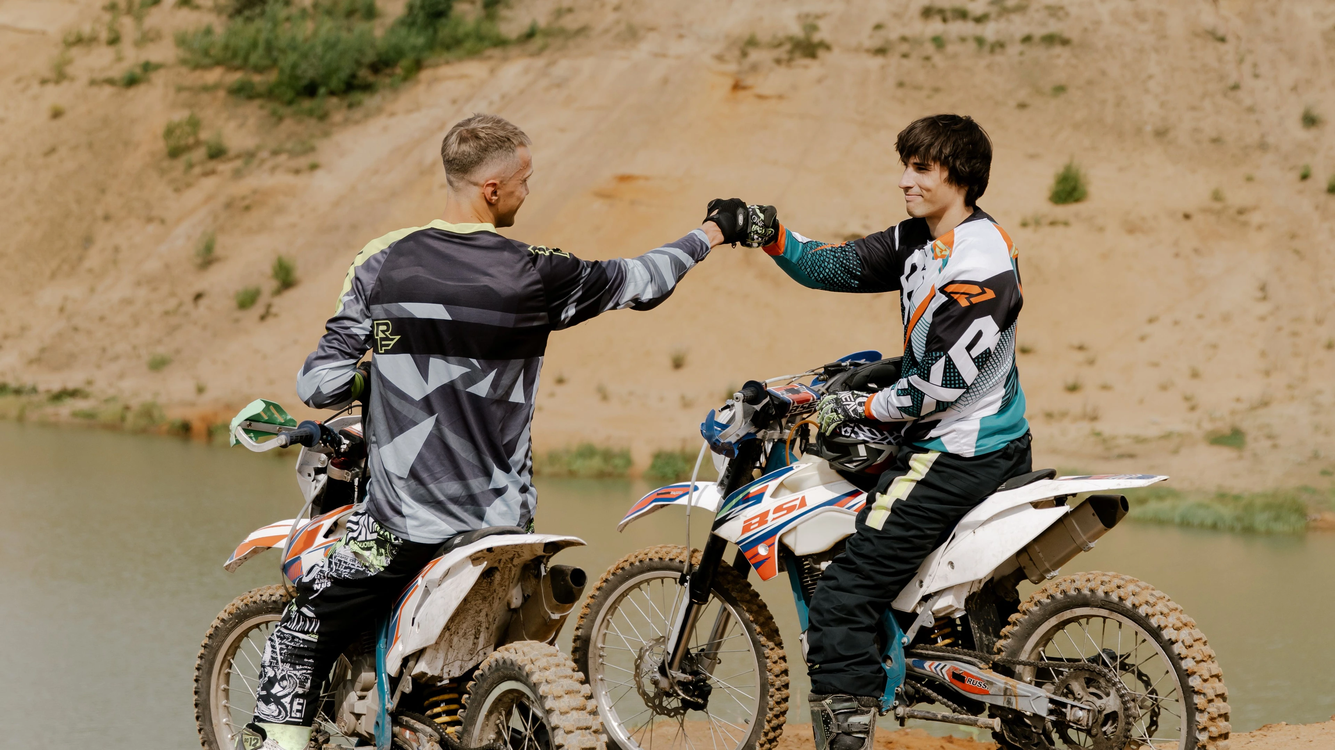
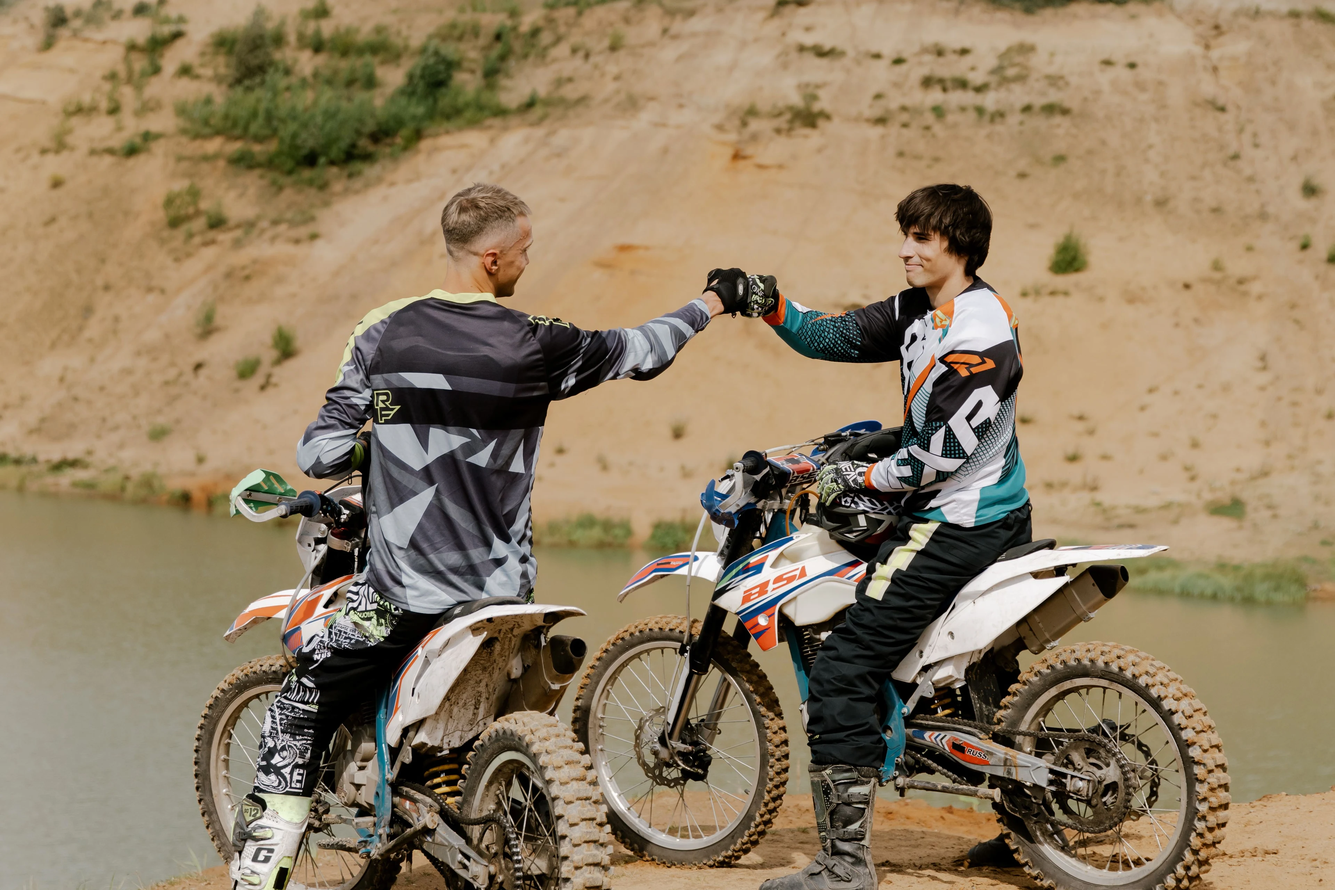
Fix hero/category images actually fitting their containers
The images were resized to good quality but weren't necessarily framed
correctly -- object-fit:cover crops a fixed-aspect source into whatever
box the viewport produces, and that box's aspect ratio swings wildly
(2.5:1 on a wide desktop hero, 0.75:1 on a portrait phone, ~4.7:1 on a
category banner at a totally standard 1920x1080). A single center-crop
image can't survive that range -- it clipped riders' heads on desktop,
cropped a rider almost entirely on mobile, and showed just wheels/sky on
category banners.

Root fixes, verified by simulating the actual browser crop and checking
the subject stays in frame at each extreme (not just trusting the math):

- Homepage hero: gentler 3:2 master crop (was 16:9, too little vertical
  headroom for the mobile crop). Swapped one of the four picks (a very
  tightly-framed 4480x6720 portrait source) for a photo whose native
  aspect already matches the target, which survives every viewport
  cleanly. Added hand-tuned object-position per slide, switched via CSS
  custom properties + a mobile media query (--pos-d / --pos-m), plus a
  max-height clamp so no viewport can push the crop past what was tested.

- Category banners: were reusing the 4:3 tile image, which forced a
  ~65-70% height crop on a standard desktop banner. Generated a separate,
  dedicated 2:1 master crop per category (same fix pattern as the hero)
  and hand-tuned object-position per photo. One photo (kids dirt bike) is
[…]

diff --git a/src/app/globals.css b/src/app/globals.css
@@ -66,10 +66,11 @@ button{font-family:inherit}
 .searchbar form{max-width:var(--maxw);margin:0 auto;padding:.8rem 20px;display:flex;gap:.5rem}
 .searchbar input{flex:1;padding:.7rem 1rem;border:1.5px solid var(--line);border-radius:100px;font-size:1rem}
 /* hero — full-bleed cinematic background with scrim */
-.hero{background:var(--night);color:var(--ivory);position:relative;overflow:hidden;min-height:72vh;display:flex;align-items:flex-end}
+.hero{background:var(--night);color:var(--ivory);position:relative;overflow:hidden;min-height:72vh;max-height:800px;display:flex;align-items:flex-end}
 .hero-bg{position:absolute;inset:0;opacity:0;transition:opacity 1.1s ease}
 .hero-bg.on{opacity:1}
-.hero-bg img{filter:saturate(1.04)}
+.hero-bg img{filter:saturate(1.04);object-position:var(--pos-d,50% 50%)}
+@media(max-width:760px){.hero-bg img{object-position:var(--pos-m,50% 50%)}}
 .hero-scrim{position:absolute;inset:0;background:linear-gradient(0deg,rgba(20,18,16,.88) 0%,rgba(20,18,16,.55) 42%,rgba(20,18,16,.18) 75%,rgba(20,18,16,.35) 100%);z-index:1}
 .hero-in{position:relative;z-index:2;max-width:var(--maxw);margin:0 auto;padding:clamp(3rem,8vw,5.5rem) 20px clamp(4rem,9vw,6rem);width:100%}
 .hero-content{max-width:640px}
@@ -82,7 +83,7 @@ button{font-family:inherit}
 .hero-dots{position:absolute;bottom:20px;left:0;right:0;display:flex;gap:8px;justify-content:center;z-index:5}
 .hero-dots button{width:9px;height:9px;border-radius:50%;border:none;background:rgba(255,255,255,.4);cursor:pointer;padding:0}
 .hero-dots button.on{background:var(--bronze);width:22px;border-radius:5px}
-@media(max-width:760px){.hero{min-height:60vh}}
+@media(max-width:760px){.hero{min-height:60vh;max-height:620px}}
 /* trust bar */
 .trust{background:var(--night-2);color:var(--ivory)}
 .trust-in{display:grid;grid-template-columns:repeat(4,1fr);gap:1rem;max-width:var(--maxw);margin:0 auto;padding:1.4rem 20px}
@@ -131,13 +132,20 @@ button{font-family:inherit}
 .phead .container{padding-top:1.6rem;padding-bottom:2rem}
 .phead h1{margin:.3rem 0 .6rem}
 /* category page photo banner */
-.cat-banner{position:relative;min-height:38vh;display:flex;align-items:flex-end;overflow:hidden;background:var(--night)}
+/* aspect-ratio (not vh) bounds how extreme the crop of the 2:1 banner
+   source can get -- vh alone let a totally standard 1920x1080 desktop
+   produce a ~4.7:1 box, cropping away most of the photo's height */
+.cat-banner{position:relative;aspect-ratio:2.4/1;min-height:280px;max-height:540px;display:flex;align-items:flex-end;overflow:hidden;background:var(--night)}
 .cat-banner-scrim{position:absolute;inset:0;background:linear-gradient(0deg,rgba(20,18,16,.86) 0%,rgba(20,18,16,.45) 55%,rgba(20,18,16,.15) 100%);z-index:1}
 .cat-banner-in{position:relative;z-index:2;padding:2.4rem 20px 2rem}
 .cat-banner h1{color:var(--ivory);margin:.3rem 0 .5rem;text-shadow:0 2px 16px rgba(0,0,0,.4)}
 .cat-banner .eyebrow{color:var(--bronze)}
 .cat-banner .lead{color:#EDE8DC}
-@media(max-width:760px){.cat-banner{min-height:30vh}}
+.cat-banner img{object-position:var(--pos-d,50% 50%)}
+@media(max-width:760px){
+  .cat-banner{aspect-ratio:4/3;min-height:220px;max-height:320px}
+  .cat-banner img{object-position:var(--pos-m,50% 50%)}
+}
 /* shop layout */
 .shop-wrap{display:grid;grid-template-columns:250px 1fr;gap:2rem;align-items:start}
 .filters{position:sticky;top:86px;background:var(--card);border:1px solid var(--line);border-radius:var(--r);padding:1.1rem}

diff --git a/src/components/Hero.jsx b/src/components/Hero.jsx
@@ -2,6 +2,14 @@
 import { useEffect, useState } from 'react';
 import SmartImage from './SmartImage';
 
+// Each slide's stored image is a gentle 3:2 master crop (see
+// scripts/process-hero-images.mjs) so the actual per-viewport crop is a
+// SECOND, independent object-fit:cover crop done by the browser -- full
+// width kept on wide desktop (only height trimmed), full height kept on
+// narrow mobile (only width trimmed). posDesktop/posMobile were hand-tuned
+// per photo by simulating both crops and checking the subject stays in
+// frame (not just centered) -- default center clips heads/riders on several
+// of these depending on where they actually sit in the frame.
 const SLIDES = [
   {
     image: '/images/hero/hero-1.webp',
@@ -10,6 +18,8 @@ const SLIDES = [
     headline: 'Premium Electric Dirt Bikes & E-Bikes',
     description:
       "Umbra Electric curates the world's finest electric dirt bikes, e-motos and e-bikes for adults and kids — flagship machines, expert guidance, worldwide shipping.",
+    posDesktop: '50% 50%',
+    posMobile: '50% 50%',
   },
   {
     image: '/images/hero/hero-2.webp',
@@ -18,6 +28,8 @@ const SLIDES = [
     headline: 'Effortless Range, Everyday Riding',
     description:
       'From coastal commutes to weekend errands, our e-bike lineup is built for daily range, comfort and near-silent power.',
+    posDesktop: '50% 10%',
+    posMobile: '50% 50%',
   },
   {
     image: '/images/hero/hero-3.webp',
@@ -26,14 +38,18 @@ const SLIDES = [
     headline: 'Race-Bred Power',
     description:
       'Built for the track and the trail — instant torque, precise handling and the aftermarket depth serious riders demand.',
+    posDesktop: '50% 5%',
+    posMobile: '50% 50%',
   },
   {
     image: '/images/hero/hero-4.webp',
-    alt: 'Young rider cornering a youth electric dirt bike on a dirt track — Umbra Electric',
-    eyebrow: 'Ruthless Curation',
-    headline: 'Only Bikes Worth Owning',
+    alt: 'Rider on a premium electric road bike crossing a bridge — Umbra Electric',
+    eyebrow: 'Every Terrain',
+    headline: 'Built For The Long Ride',
     description:
-      "128 curated models across 8 categories from the brands that define the category. If we wouldn't ride it, we don't carry it.",
+      'Lightweight electric road and gravel bikes for endurance, speed and long-distance riding — chosen for ride feel, not just spec sheets.',
+    posDesktop: '50% 50%',
+    posMobile: '50% 50%',
   },
 ];
 
@@ -48,7 +64,12 @@ export default function Hero() {
   return (
     <section className="hero">
       {SLIDES.map((s, idx) => (
-        <div key={s.image} className={`hero-bg${idx === i ? ' on' : ''}`} aria-hidden={idx !== i}>
+        <div
+          key={s.image}
+          className={`hero-bg${idx === i ? ' on' : ''}`}
+          aria-hidden={idx !== i}
+          style={{ '--pos-d': s.posDesktop, '--pos-m': s.posMobile }}
+        >
           <SmartImage src={s.image} alt={s.alt} fill fit="cover" priority={idx === 0} sizes="100vw" />
         </div>
       ))}

diff --git a/src/app/shop/[cat]/page.jsx b/src/app/shop/[cat]/page.jsx
@@ -9,6 +9,21 @@ export function generateStaticParams() {
   return CATEGORIES.map((c) => ({ cat: c.slug }));
 }
 
+// Hand-tuned per photo by simulating the actual object-fit:cover crop at
+// both a standard 1920x1080 desktop and mobile, then checking the subject
+// stays in frame -- see scripts/process-hero-images.mjs for how the master
+// 2:1 banner crop itself was generated. Default (unlisted) is "50% 50%".
+const BANNER_POSITION = {
+  'adult-electric-dirt-bikes': '50% 10%',
+  'kids-electric-dirt-bikes': '50% 0%',
+  'electric-mountain-bikes': '50% 10%',
+  'electric-commuter-bikes': '50% 10%',
+  'electric-road-gravel-bikes': '50% 10%',
+  'electric-fat-tire-bikes': '50% 10%',
+  'kids-electric-bikes': '50% 70%',
+  'folding-electric-bikes': '50% 40%',
+};
+
 export async function generateMetadata({ params }) {
   const { cat: catSlug } = await params;
   const cat = getCategory(catSlug);
@@ -49,8 +64,8 @@ export default async function CategoryPage({ params }) {
       <JsonLd data={crumbLd} />
       <JsonLd data={collectionLd} />
       <Breadcrumbs items={[{ label: 'Home', href: '/' }, { label: 'Shop', href: '/shop/' }, { label: cat.title }]} />
-      <section className="cat-banner">
-        <SmartImage src={`/images/categories/${cat.slug}.webp`} alt={`${cat.title} — ${SITE.name}`} fill fit="cover" priority sizes="100vw" />
+      <section className="cat-banner" style={{ '--pos-d': BANNER_POSITION[cat.slug] || '50% 50%', '--pos-m': '50% 50%' }}>
+        <SmartImage src={`/images/categories/${cat.slug}-banner.webp`} alt={`${cat.title} — ${SITE.name}`} fill fit="cover" priority sizes="100vw" />
         <div className="cat-banner-scrim" />
         <div className="container cat-banner-in">
           <span className="eyebrow">Category</span>
